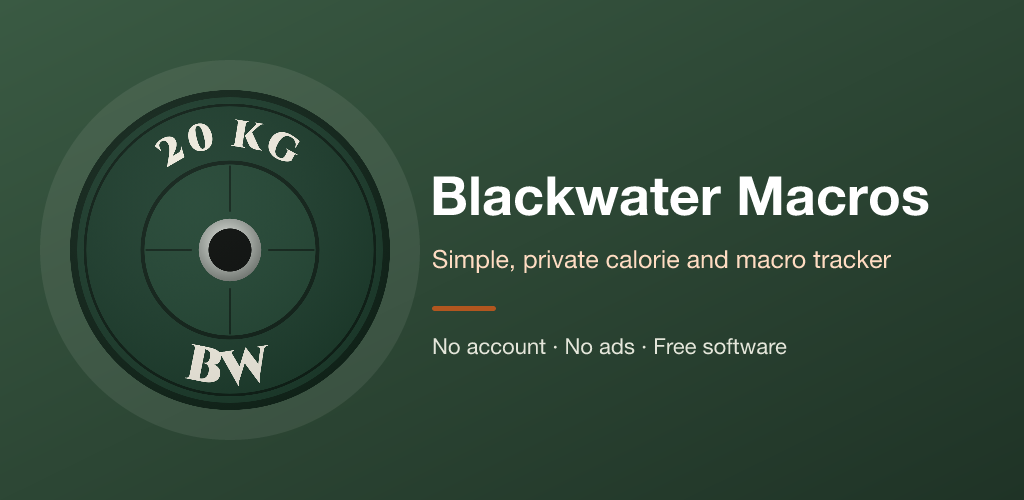
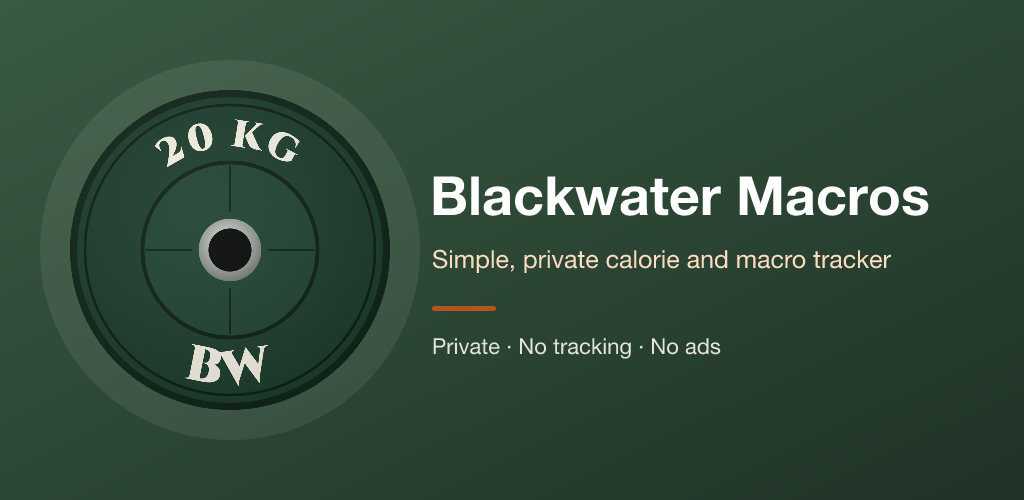
Listing: private, no tracking, no ads; accounts optional

Changed region(s): [[0.4062, 0.66, 0.7812, 0.72]]

diff --git a/README.md b/README.md
@@ -3,7 +3,7 @@
 </p>
 
 <p align="center"><b>A simple, private calorie and macro tracker for Android, with targets based on science.</b><br>
-No account. No ads. No tracking. Free software.</p>
+Private. No tracking. No ads. Free software.</p>
 
 <p align="center"><i>Coming soon to F-Droid.</i></p>
 
@@ -72,10 +72,10 @@ app (Settings → Methodology) and in [docs/METHODOLOGY.md](docs/METHODOLOGY.md)
 
 ## Private by design
 
-- **No account needed.** The app opens straight on your meals and stores everything on your
-  phone.
-- **Without an account, the app never contacts our server.** The code refuses any request to
-  it before it leaves the phone. The app only goes online when you ask for something, and only
+- **Your data stays on your phone.** The app opens straight on your meals, no sign-up, and
+  stores everything on the device.
+- **Without logging in, your data never leaves the device.** The app never contacts our
+  server: the code refuses any request to it before it leaves the phone. The app only goes online when you ask for something, and only
   to:
 
   | When | Where |
@@ -87,8 +87,8 @@ app (Settings → Methodology) and in [docs/METHODOLOGY.md](docs/METHODOLOGY.md)
 
   A test (`NetworkHostsTest`) fails if the code ever learns another address.
 - **No ads, no analytics, no trackers, no Google services.**
-- **Accounts** are optional and, for now, by invitation: they sync your data between your
-  devices.
+- **Optional sync.** With an account, your data is also kept in the cloud and synced between
+  your devices. For now, accounts are by invitation only.
 
 ## Permissions
 
